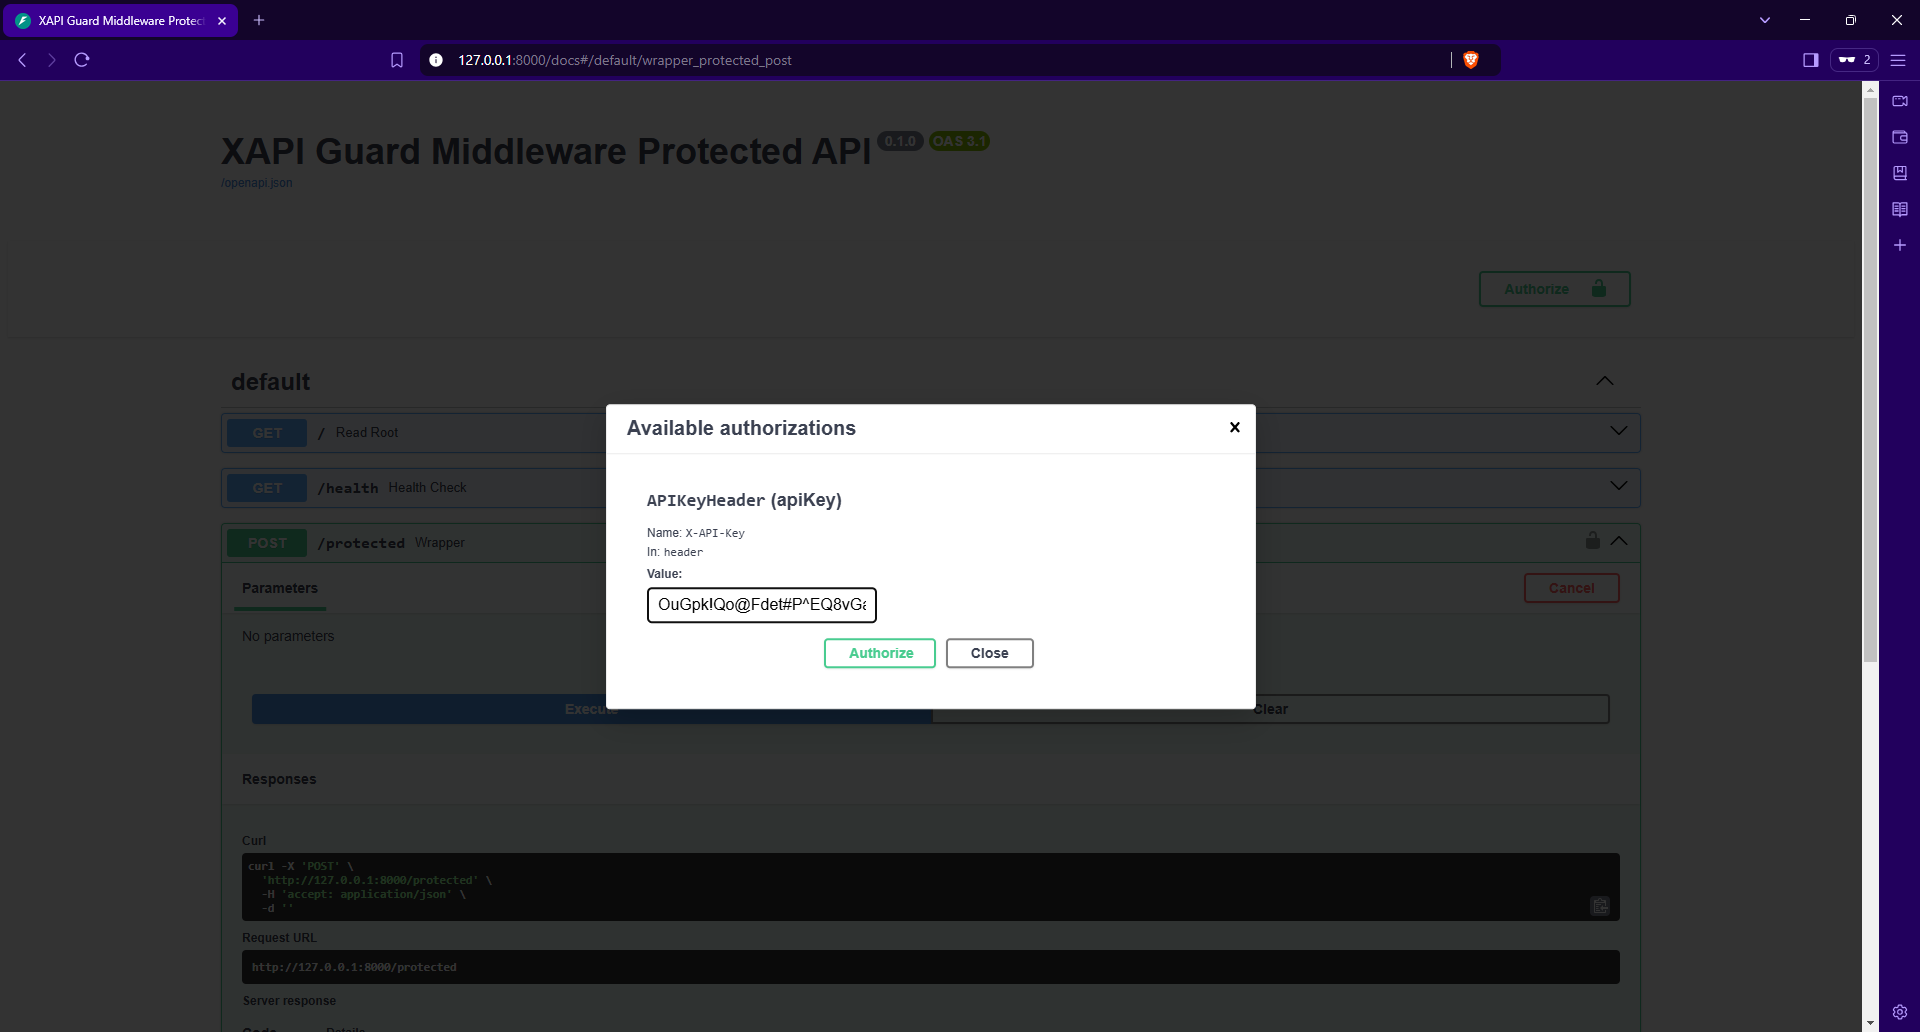
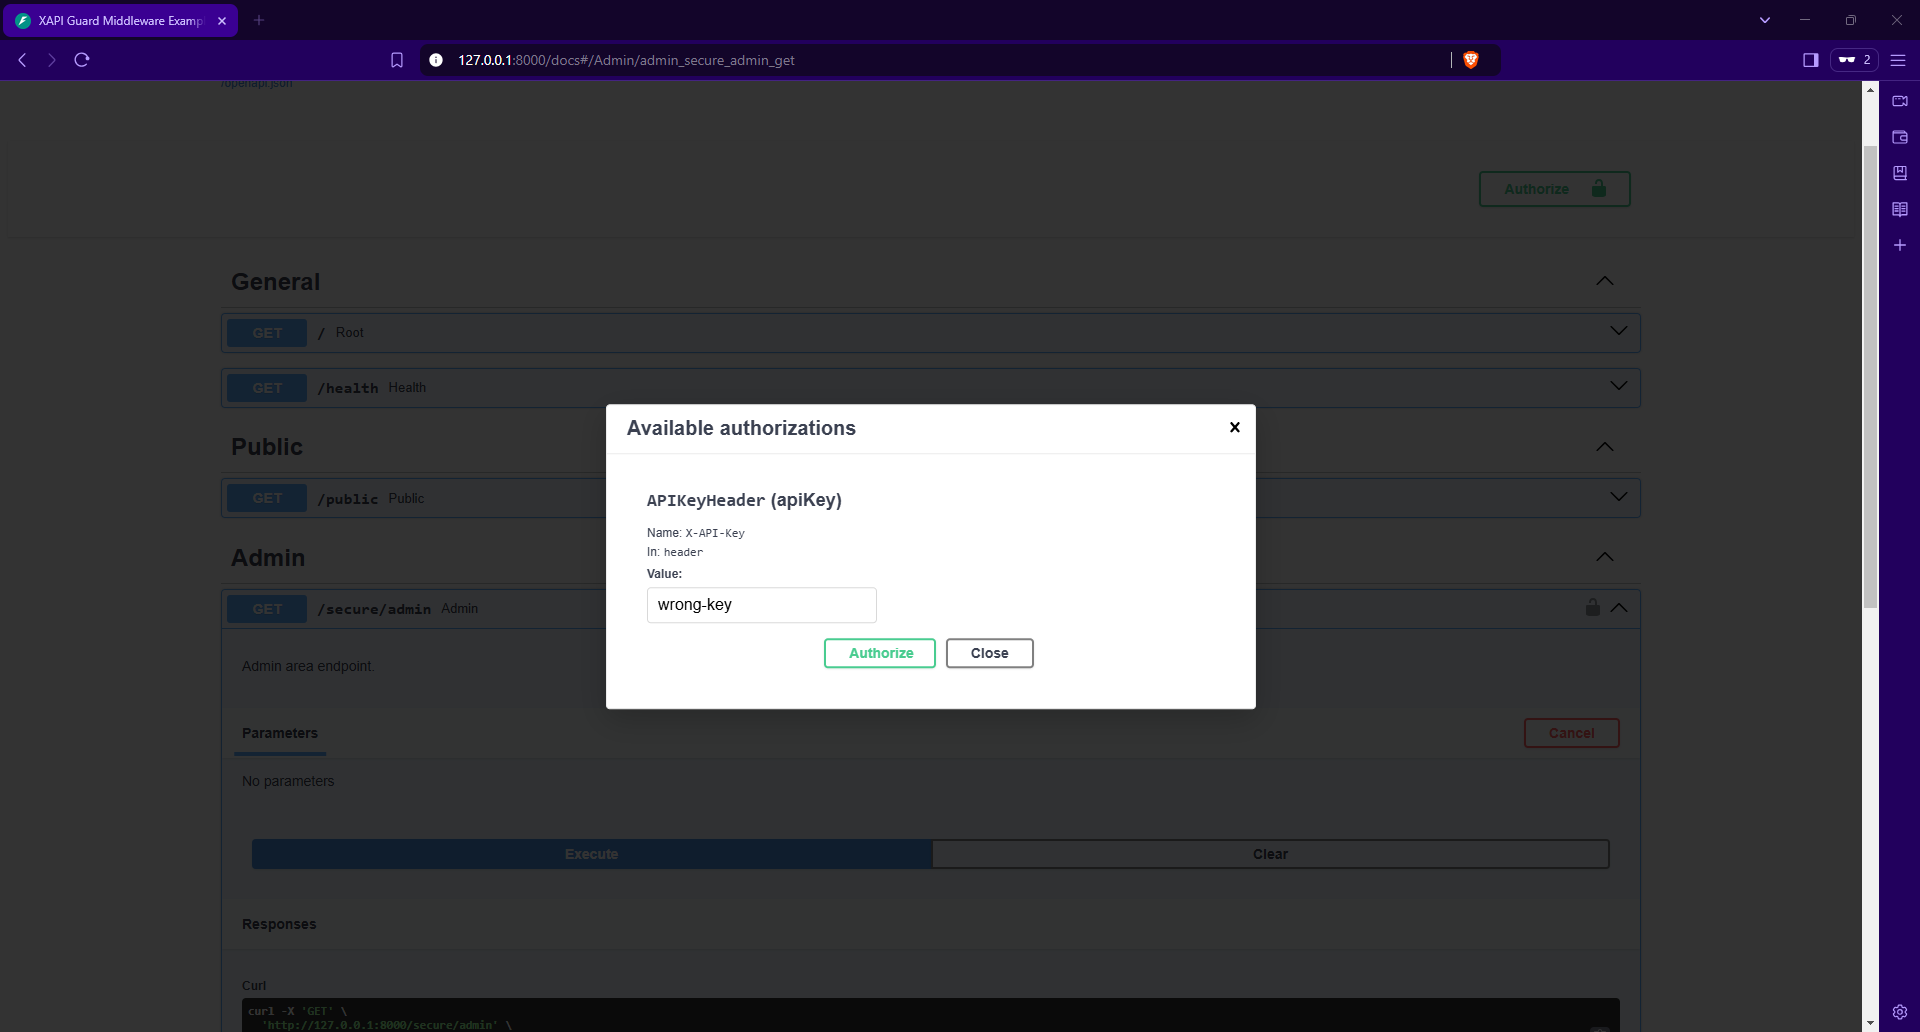
feat(docs): update README to enhance clarity and add usage examples for XAPI Guard Middleware feat(app.py): refactor FastAPI application structure to use routers for better organization feat(middleware): implement XAPIGuardMiddleware for API key validation and route protection refactor(decorators): 

diff --git a/xapi_guard_middleware/middleware.py b/xapi_guard_middleware/middleware.py
@@ -1,76 +1,45 @@
-from starlette.middleware.base import BaseHTTPMiddleware
-from starlette.responses import JSONResponse
 from http import HTTPStatus
+from fastapi import HTTPException, Depends
+from fastapi.security import APIKeyHeader
+from .error_codes import APIErrorCode
 
 
-class XApiKeyMiddleware(BaseHTTPMiddleware):
-    """FastAPI middleware for API key authentication.
+class XAPIGuardMiddleware:
+    """
+    Middleware to protect routes with an API key.
 
-    This middleware validates the x-api-key header against a predefined API key.
-    Requests to excluded paths bypass the validation.
-
-    Args:
-        app: The FastAPI application
-        api_key: The API key to validate against
-        exclude_paths: Set of paths to exclude from validation
+    Attributes:
+        x_api_key (str): The valid API key for authentication.
+        x_api_key_header (APIKeyHeader): The FastAPI security dependency for API key header.
     """
 
-    def __init__(self, app, api_key: str, exclude_paths: set = None):
-        """Initialize the middleware.
+    def __init__(self, x_api_key: str):
+        """
+        Initializes the XAPIGuardMiddleware with the provided API key.
 
         Args:
-            app: The FastAPI application
-            api_key: The API key to validate against
-            exclude_paths: Set of paths to exclude from validation
+            x_api_key (str): The valid API key to be used for authentication.
+        """
+        self.x_api_key = x_api_key
+        self.x_api_key_header = APIKeyHeader(name="X-API-Key", auto_error=True)
+
+    async def protect(
+        self, x_api_key: str = Depends(APIKeyHeader(name="X-API-Key", auto_error=True))
+    ):
+        """
+        Protects a route by validating the provided API key.
+
+        Args:
+            x_api_key (str): The API key provided in the request header.
 
         Raises:
-            ValueError: If api_key is empty
+            HTTPException: If the API key is invalid, a 403 Forbidden error is raised.
         """
-        super().__init__(app)
-        if not api_key:
-            raise ValueError("API key cannot be empty")
-        self.api_key = api_key
-        self.exclude_paths = exclude_paths or set()
-
-    async def dispatch(self, request, call_next):
-        """Validate the x-api-key header in the request.
-
-        Args:
-            request: The incoming request
-            call_next: The next middleware in the chain
-
-        Returns:
-            Response: The response from the next middleware or an error response
-
-        Response Codes:
-            200: Request successful
-            401: API key missing
-            403: Invalid API key
-            500: Internal server error
-        """
-        try:
-            if request.url.path in self.exclude_paths:
-                return await call_next(request)
-
-            api_key = request.headers.get("X-API-Key")
-
-            if not api_key:
-                return JSONResponse(
-                    status_code=HTTPStatus.UNAUTHORIZED,
-                    content={"detail": "X-API-Key header missing"},
-                )
-
-            if api_key != self.api_key:
-                return JSONResponse(
-                    status_code=HTTPStatus.FORBIDDEN,
-                    content={"detail": "Invalid X-API-Key"},
-                )
-
-            response = await call_next(request)
-            return response
-
-        except Exception:
-            return JSONResponse(
-                status_code=HTTPStatus.INTERNAL_SERVER_ERROR,
-                content={"detail": "Internal server error"},
+        if x_api_key != self.x_api_key:
+            raise HTTPException(
+                status_code=HTTPStatus.FORBIDDEN,
+                detail={
+                    "code": APIErrorCode.INVALID_API_KEY.value,
+                    "message": "Invalid API key",
+                },
             )

diff --git a/app.py b/app.py
@@ -1,35 +1,51 @@
-from fastapi import FastAPI
-from fastapi.security import APIKeyHeader
-from xapi_guard_middleware import XApiKeyMiddleware, XAPIGuard
-from http import HTTPMethod
+from fastapi import FastAPI, Depends, APIRouter
+from xapi_guard_middleware.middleware import XAPIGuardMiddleware
 
-app = FastAPI(title="XAPI Guard Middleware Protected API")
+app = FastAPI(title="XAPI Guard Middleware Example")
 
-API_KEY = "OuGpk!Qo@Fdet#P^EQ8vGaknVOO"
+guard = XAPIGuardMiddleware(x_api_key="DEN#3xTezZDo1nJg1pO$tIrzQ9A")
 
-guard = XAPIGuard(app)
+# Routers for different route groups
+admin_router = APIRouter(dependencies=[Depends(guard.protect)])
+settings_router = APIRouter(dependencies=[Depends(guard.protect)])
+public_router = APIRouter()
 
-app.add_middleware(
-    XApiKeyMiddleware,
-    api_key=API_KEY,
-    exclude_paths={
-        "/",
-        "/docs",
-        "/health",
-        "/redoc",
-        "/favicon.ico",
-        "/openapi.json",
-    },
-)
 
-@app.get("/")
-async def read_root():
-    return {"message": "Hello World!"}
+# General routes
+@app.get("/", tags=["General"])
+async def root():
+    """Root endpoint returning a welcome message."""
+    return {"message": "Hello World"}
 
-@app.get("/health")
-async def health_check():
+
+@app.get("/health", tags=["General"])
+async def health():
+    """Health check endpoint to verify service status."""
     return {"status": "healthy"}
 
-@guard.protect("/protected", method=HTTPMethod.POST)
-async def protected_route():
-    return {"message": "This is a protected route"}
+
+# Public routes
+@public_router.get("/public", tags=["Public"])
+async def public():
+    """Public endpoint accessible to everyone."""
+    return {"message": "This is a public endpoint accessible to everyone."}
+
+
+# Admin routes
+@admin_router.get("/admin", tags=["Admin"])
+async def admin():
+    """Admin area endpoint."""
+    return {"message": "Welcome to the admin area!"}
+
+
+# Settings routes
+@settings_router.get("/settings", tags=["Settings"])
+async def settings():
+    """Settings page, accessible only to authorized users."""
+    return {"message": "Settings page, accessible only to authorized users."}
+
+
+# Include the routers in the main app
+app.include_router(public_router)
+app.include_router(admin_router, prefix="/secure")
+app.include_router(settings_router, prefix="/secure")

diff --git a/xapi_guard_middleware/__init__.py b/xapi_guard_middleware/__init__.py
@@ -1,5 +1,1 @@
-from .decorators import XAPIGuard
-from .middleware import XApiKeyMiddleware
-
-__version__ = "0.1.0"
-__all__ = ["XAPIGuard", "XApiKeyMiddleware"]
+from .error_codes import APIErrorCode

diff --git a/xapi_guard_middleware/error_codes.py b/xapi_guard_middleware/error_codes.py
@@ -1,0 +1,8 @@
+from enum import Enum
+
+
+class APIErrorCode(Enum):
+    """Enumeration of API error codes."""
+
+    INVALID_API_KEY = "INVALID_API_KEY"
+    """Error code for invalid API key."""

diff --git a/README.md b/README.md
@@ -1,5 +1,6 @@
 # XAPI Guard Middleware
 
+[![Downloads](https://img.shields.io/pypi/dm/xapi-guard-middleware)](https://pypi.org/project/xapi-guard-middleware/)
 [![PyPI version](https://badge.fury.io/py/xapi-guard-middleware.svg)](https://badge.fury.io/py/xapi-guard-middleware)
 [![License: MIT](https://img.shields.io/badge/License-MIT-yellow.svg)](https://opensource.org/licenses/MIT)
 ![XAPI Guard](https://img.shields.io/badge/XAPI_Guard-0.1.6-blue)
@@ -7,17 +8,15 @@
 ![FastAPI](https://img.shields.io/badge/FastAPI-0.109.0-blue)
 [![Code style: black](https://img.shields.io/badge/code%20style-black-000000.svg)](https://github.com/psf/black)
 
-[![Downloads](https://img.shields.io/pypi/dm/xapi-guard-middleware)](https://pypi.org/project/xapi-guard-middleware/)
-
 XAPI Guard is FastAPI middleware that protects your API endpoints by validating the X-API-Key header. It's designed in a decorator style, so you can annotate your FastAPI endpoints with `@guard.protect` to protect them.
 
 ## Features
 
-- Annotate your FastAPI endpoints with `@guard.protect` to protect them
-- Protect specific HTTP methods (GET, POST, PUT, DELETE, etc.)
-- Exclude paths from protection (e.g. /docs, /openapi.json, etc.)
-- Configure API key header name and auto error
-- Support for OpenAPI/Swagger documentation (with `@guard.protect` annotation)
+- Protect your FastAPI endpoints by validating the `X-API-Key` header.
+- Use `@guard.protect` to secure specific routes or entire routers.
+- Easily configure which routes require protection and which are public.
+- Automatically handle unauthorized access with appropriate error messages.
+- Support for OpenAPI/Swagger documentation with protected routes.
 
 ## Installation
 
@@ -36,61 +35,64 @@ pip install xapi-guard-middleware
 ## Quick Start
 
 ```python
-from fastapi import FastAPI
-from fastapi.security import APIKeyHeader
-from xapi_guard_middleware import XApiKeyMiddleware, XAPIGuard
-from http import HTTPMethod
+from fastapi import FastAPI, Depends, APIRouter
+from xapi_guard_middleware.middleware import XAPIGuardMiddleware
 
-app = FastAPI(title="XAPI Guard Middleware Protected API")
+app = FastAPI(title="XAPI Guard Middleware Example")
 
-API_KEY = "OuGpk!Qo@Fdet#P^EQ8vGaknVOO"
+guard = XAPIGuardMiddleware(x_api_key="DEN#3xTezZDo1nJg1pO$tIrzQ9A")
 
-guard = XAPIGuard(app)
+# Routers for different route groups
+admin_router = APIRouter(dependencies=[Depends(guard.protect)])
+settings_router = APIRouter(dependencies=[Depends(guard.protect)])
+public_router = APIRouter()
 
-app.add_middleware(
-    XApiKeyMiddleware,
-    api_key=API_KEY,
-    # Exclude paths from protection, by default the middleware will protect all paths
-    exclude_paths={
-        "/",
-        "/docs",
-        "/health",
-        "/redoc",
-        "/favicon.ico",
-        "/openapi.json",
-    },
-)
+# General routes
+@app.get("/", tags=["General"])
+async def root():
+    return {"message": "Hello World"}
 
-@app.get("/")
-async def read_root():
-    return {"message": "Hello World!"}
-
-@app.get("/health")
-async def health_check():
+@app.get("/health", tags=["General"])
+async def health():
     return {"status": "healthy"}
 
-# The goal of this decorator is to add the X-API-Key header to the request in OpenAPI/Swagger documentation
-@guard.protect("/protected", method=HTTPMethod.POST)
-async def protected_route():
-    return {"message": "This is a protected route"}
+# Public routes
+@public_router.get("/public", tags=["Public"])
+async def public():
+    return {"message": "This is a public endpoint accessible to everyone."}
+
+# Admin routes
+@admin_router.get("/admin", tags=["Admin"])
+async def admin():
+    return {"message": "Welcome to the admin area!"}
+
+# Settings routes
+@settings_router.get("/settings", tags=["Settings"])
+async def settings():
+    return {"message": "Settings page, accessible only to authorized users."}
+
+# Include the routers in the main app
+app.include_router(public_router)
+app.include_router(admin_router, prefix="/secure")
+app.include_router(settings_router, prefix="/secure")
 ```
 
 ### Making Requests
 
 ```bash
 # Unauthorized request (missing API key)
-curl -X POST http://localhost:8000/protected
+curl -X GET http://localhost:8000/secure/admin
 # Response: {"detail": "X-API-Key header missing"}
 # Status code: 401
 
 # Unauthorized request (invalid API key)
-curl -X POST http://localhost:8000/protected -H "X-API-Key: wrong-key"
+curl -X GET http://localhost:8000/secure/admin -H "X-API-Key: wrong-key"
 # Response: {"detail": "Invalid X-API-Key"}
 # Status code: 403
 
 # Authorized request
-curl -X POST http://localhost:8000/protected -H "X-API-Key: YOUR_API_KEY"
-# Response: {"message": "This is a protected route"}
+curl -X GET http://localhost:8000/secure/admin -H "X-API-Key: YOUR_API_KEY"
+# Response: {"message": "Welcome to the admin area!"}
 # Status code: 200
 ```
 
@@ -110,14 +112,12 @@ poetry run uvicorn app:app --reload
 ![image](./assets/2.png)
 
 * X-API-Key header is invalid
-![image](./assets/5.png)
-
-* Authorized request
 ![image](./assets/3.png)
-
-* OpenAPI/Swagger documentation
 ![image](./assets/4.png)
 
+* X-API-Key header is valid
+![image](./assets/5.png)
+![image](./assets/6.png)
 
 
 ## Contributing
